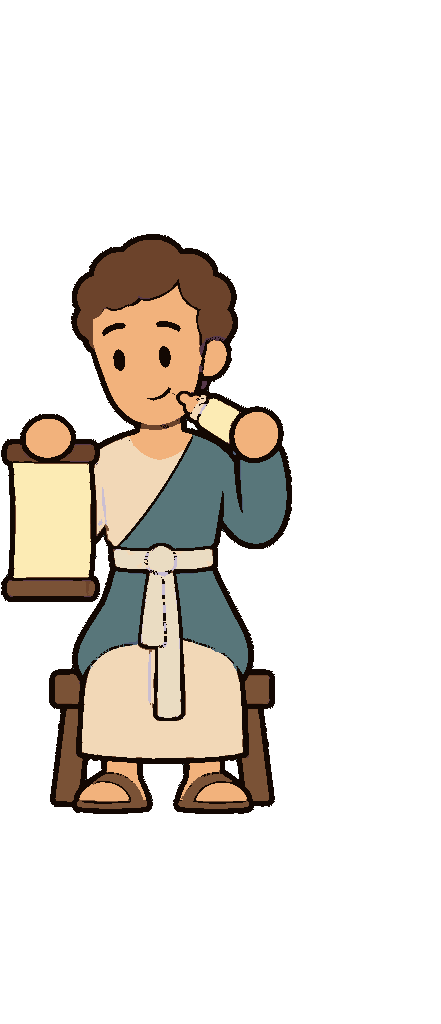
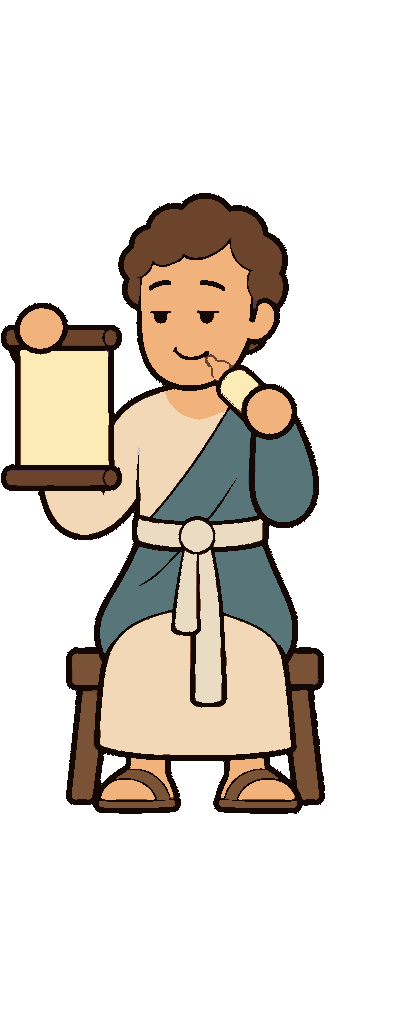
feat(animations): the lead's read and its blink drawn again: his lids half down on the letter, his right arm in its cream sleeve from the shoulder, the scroll as large as his face beside it above the garland, a clean jaw; his six first keys stand byte for byte (critique 1, findings 1 to 3 and 5)

Changed region(s): [[0.0, 0.1875, 0.798, 0.8125]]

diff --git a/apps/animations/src/films/in-its-order/storybook/sheets.ts b/apps/animations/src/films/in-its-order/storybook/sheets.ts
@@ -36,11 +36,11 @@ const BOTTLE =
 const SCROLL =
   'a small plain open scroll about as tall as his head: one sheet of parchment painted exactly butter cream #f3e3a0, flat in that one colour and blank, with no writing, letters, lines, seal or marks on it, between two short round wooden rollers painted exactly dark brown #6c432b, one at its top and one at its bottom';
 
-/** His table sheet, as a reference of its own later pass and of his close: its first figure is the man the pass draws, its fifth the man the shot before the card leaves on screen (a path from his views folder, since a reference is named from there). */
+/** His table sheet, as a reference of its own later pass and of his close: its first figure is the man the pass draws, its fifth the man his close draws larger, eyes lowered and hands empty (a path from his views folder, since a reference is named from there). */
 const TABLE_SHEET_REF = '../../shot-sheets/iio-table/sheet';
 
-/** The lead reading the letter with the bottle at his mouth (owner, scrawl 0:21: "he holds it with one hand and the bottle in the other and he looks at the scroll while drinking from the milk"): the bottle tipped to the corner of his mouth, as the villagers' baby drinks, so the face's middle and the collar read; the scroll held beside the chest, clear of the sash and below the chin; his head turned a quarter to it, as a guest's stare turns, the eyes open, so a blink pastes on them (two passes that asked the eyes down drew them to the viewer); the sash asked lighter than the tunic by name (a third pass drew them one cream, so the split read no sash). */
-const TABLE_READ = `the same man as the first reference image's figures, at the same size, seated on the low stool, his body facing the viewer; the left hand (on the viewer's right) raised in its sleeve holding ${BOTTLE} tipped up, its teat at the corner of his mouth at the picture's right, drinking, the middle of the face, the chin and the neck clear of the bottle; the right hand (on the viewer's left) raised in its sleeve before the chest at the picture's left holding ${SCROLL}, held up by its top roller and hanging open below the hand, its top below the chin, clear of the sash and its knot; his head a quarter turned toward the viewer's left, to the scroll, reading it: the eyes, nose and mouth shifted well toward the picture's left of the face, the ear on the picture's right showing and the one on the left hidden behind the cheek, the eyes two small dark ovals, open, set low and to the picture's left in the eye line, looking down at the scroll, never at the viewer; the sash and its knot exactly as the first reference image's figures draw them, the sash's pale cool cream #eadcc2 plainly lighter than the tunic's warm cream #f2d8b7 round it, outlined in the ink`;
+/** The lead reading the letter with the bottle at his mouth (owner, scrawl 0:21: "he holds it with one hand and the bottle in the other and he looks at the scroll while drinking from the milk"): the bottle at the `bottle` key's size, tipped to the corner of his mouth, as the villagers' baby drinks, so the face's middle and the collar read; the scroll as tall as his head, held up beside his face at the picture's left on an arm in its cream sleeve from the shoulder, so its lower roller clears the table's garland; his head turned a quarter to it with the upper lids half down as his `down` draws them, so his eyes read on the letter; the jaw one ink line over bare skin; the sash asked lighter than the tunic by name (a pass drew them one cream, so the split read no sash). */
+const TABLE_READ = `the same man as the first reference image's figures, at the same size, seated on the low stool, his body facing the viewer; the left hand (on the viewer's right) raised in its sleeve holding ${BOTTLE} tipped up, the bottle exactly as large as the first reference image's fourth figure draws it, its cream body as long as half his face is tall and as wide as his round hand, the hand holding it by its far end so the whole cream body shows between the hand and his mouth, its teat at the corner of his mouth at the picture's right, drinking, the teat all tan #b98a5e down to the bottle's cream with no other colour between them, the middle of the face, the chin and the neck clear of the bottle; the right arm (on the viewer's left) drawn whole in its warm cream #f2d8b7 sleeve: from the shoulder at the picture's left the sleeve runs down to the elbow beside the body, then the forearm in the same cream sleeve bends up beside him, its round hand at its end raised beside his face at the picture's left, holding up ${SCROLL} by its top roller, the top roller at the height of his eyes, the open parchment hanging below the hand taller than his face and as wide as his face, its bottom roller at the height of his chest, well above the sash, the scroll clear of his face and of the edge of the picture; his head a quarter turned toward the viewer's left, to the scroll, reading it: the eyes, nose and mouth shifted well toward the picture's left of the face, the ear on the picture's right showing and the one on the left hidden behind the cheek, the upper lids half down exactly as the first reference image's fifth figure draws them, the eyes low under the lids and looking down to the picture's left at the scroll, never at the viewer; the jaw one clean ink line, his bare skin #f2b27c under it down to the collar, no brown, plum or dark marks on the cheek, the jaw, the chin or the neck; the sash and its knot exactly as the first reference image's figures draw them, the sash's pale cool grey cream #eadcc2 plainly greyer and lighter than the tunic's warm peach cream #f2d8b7 round it, never the tunic's colour, its edges and its knot outlined in the black ink as thick as the robe's outline`;
 
 /** The small clay cup, in the member's footwear brown, milk in its pale paint inside. */
 const cup = (clay: string, milk: string): string =>
@@ -100,7 +100,7 @@ const CLOSE_AS_TABLE =
 /** The sash's light as his kept front view draws it (a measured paint), a paint his close alone adds: the close draws its sash so near its tunic's cream that the split gave the sash's paint one pixel and the proportions read no sash top; this light, 2.5 from the sash's base, gathers the drawn sash. */
 const CLOSE_SASH = [{ name: 'sash light', base: '#f2dec8', role: 'sash' }] as const;
 
-/** The lead close (`cold-ouch`): three keys, so a close stays under the enlargement cap. His `down` is his table sheet's `down`, lids half down on the scroll, as the shot before the card leaves him. */
+/** The lead close (`cold-ouch`): three keys, so a close stays under the enlargement cap. His `down` is his table sheet's `down`, lids half down on the letter he has set down while the card covered him. */
 const leadClose: SheetDecl = {
   member: 'lead-feast',
   id: 'iio-close',

diff --git a/apps/animations/src/library/cast/lead-feast/shot-sheets/iio-table/cells.ts b/apps/animations/src/library/cast/lead-feast/shot-sheets/iio-table/cells.ts
@@ -15,6 +15,6 @@ export const CELLS = {
   bottle: { png: cell3, size: [259, 1024], ax: 123.5, ay: 814, head: 226 },
   down: { png: cell4, size: [245, 1024], ax: 119.5, ay: 814, head: 226 },
   downBlink: { png: cell5, size: [238, 1024], ax: 128.5, ay: 814, head: 226 },
-  read: { png: cell6, size: [441, 1024], ax: 162.5, ay: 814, head: 225 },
-  readBlink: { png: cell7, size: [442, 1024], ax: 311.5, ay: 814, head: 225 },
+  read: { png: cell6, size: [406, 1024], ax: 196.5, ay: 814, head: 226 },
+  readBlink: { png: cell7, size: [408, 1024], ax: 278.5, ay: 814, head: 226 },
 } as const;
